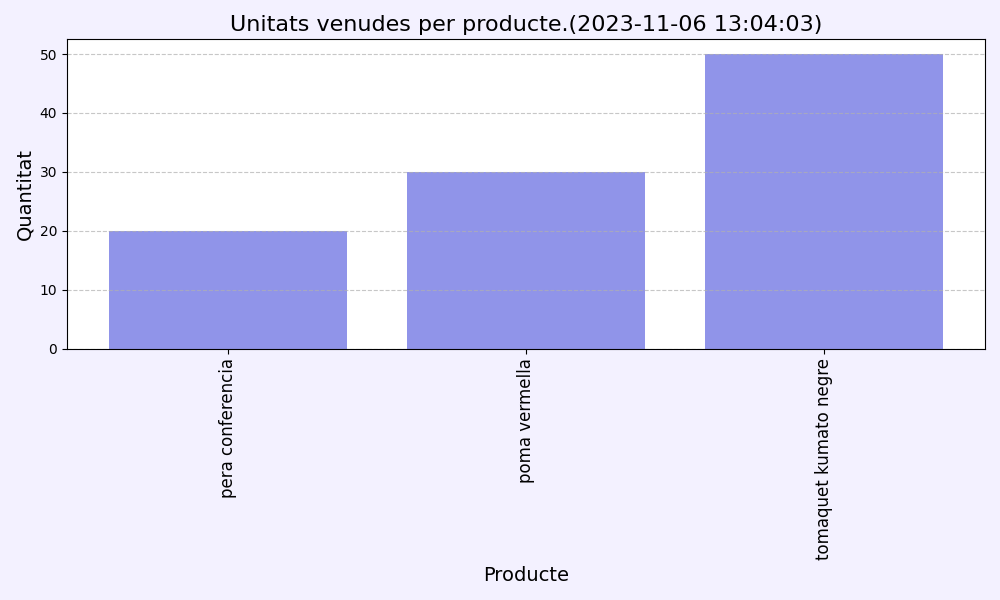
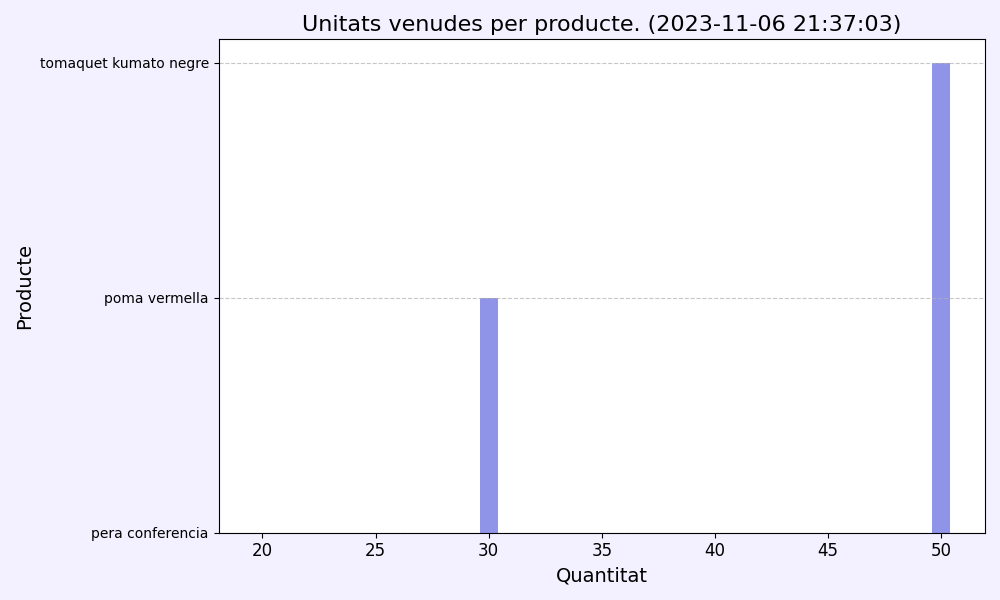
.env afegit al vue

diff --git a/frontend/vuetify/src/components/Statistics.vue b/frontend/vuetify/src/components/Statistics.vue
@@ -1,15 +1,18 @@
-<script setup></script>
+<script setup>
+</script>
 
 <script>
 export default {
   data() {
     return {
       fotoQuantitats:
-        "http://localhost:3001/api/getImatgeEstadistiques/producteCantidad",
+        import.meta.env.VITE_NODE_ROUTE +
+        "getImatgeEstadistiques/producteCantidad",
       fotoQuantitatsVenudes:
-        "http://localhost:3001/api/getImatgeEstadistiques/producteMesVenut",
+        import.meta.env.VITE_NODE_ROUTE +
+        "getImatgeEstadistiques/producteMesVenut",
       fotoHoraComu:
-        "http://localhost:3001/api/getImatgeEstadistiques/HoraMesComu?",
+        import.meta.env.VITE_NODE_ROUTE + "getImatgeEstadistiques/HoraMesComu?",
       dialog1: false,
       dialog2: false,
       dialog3: false,
@@ -17,7 +20,7 @@ export default {
   },
   methods: {
     executeStatistics() {
-      fetch("http://localhost:3001/api/executeStatistics")
+      fetch(import.meta.env.VITE_NODE_ROUTE + "hexecuteStatistics")
         .then((response) => {
           if (!response.ok) {
             throw new Error("Network response was not ok");
@@ -25,26 +28,24 @@ export default {
           return response.json();
         })
         .then((data) => {
-          // Handle a successful response here
           var rand = Math.random(100000);
           console.log("Response from /api/executeStatistics:", data);
 
           this.fotoQuantitats =
-            "http://localhost:3001/api/getImatgeEstadistiques/producteCantidad?" +
+            import.meta.env.VITE_NODE_ROUTE +
+            "getImatgeEstadistiques/producteCantidad?" +
             rand;
           this.fotoQuantitatsVenudes =
-            "http://localhost:3001/api/getImatgeEstadistiques/producteMesVenut?" +
+            import.meta.env.VITE_NODE_ROUTE +
+            "getImatgeEstadistiques/producteMesVenut?" +
             rand;
           this.fotoHoraComu =
-            "http://localhost:3001/api/getImatgeEstadistiques/HoraMesComu?" +
+            import.meta.env.VITE_NODE_ROUTE +
+            "getImatgeEstadistiques/HoraMesComu?" +
             rand;
-
-          // You can update your UI or perform other actions with the response data.
         })
         .catch((error) => {
-          // Handle errors here
           console.error("Error executing statistics:", error);
-          // You can show an error message or perform error handling.
         });
     },
   },
@@ -64,7 +65,7 @@ export default {
       class="mt-5"
       @click="$router.push('/')"
     ></v-btn>
-    <h1 class="text-center text-h2 my-16 pt-10 font-weight-bold">
+    <h1 class="text-center text-h2 my-10 mb-16 font-weight-bold">
       Estadístiques
     </h1>
     <v-container>
@@ -85,7 +86,7 @@ export default {
                   Productes Restants
                 </div>
                 <v-dialog v-model="dialog1" width="1200">
-                  <template v-slot:activator="{ props }">
+                  <template v-slot:activator>
                     <v-card
                       class="image-card"
                       style="
@@ -119,7 +120,7 @@ export default {
                   Unitats Venudes
                 </div>
                 <v-dialog v-model="dialog2" width="1200">
-                  <template v-slot:activator="{ props }">
+                  <template v-slot:activator>
                     <v-card
                       class="image-card"
                       style="
@@ -155,7 +156,7 @@ export default {
                   Hores Comunes
                 </div>
                 <v-dialog v-model="dialog3" width="1200">
-                  <template v-slot:activator="{ props }">
+                  <template v-slot:activator>
                     <v-card
                       class="image-card"
                       style="

diff --git a/frontend/vuetify/src/components/EditProduct.vue b/frontend/vuetify/src/components/EditProduct.vue
@@ -20,7 +20,7 @@ export default {
     };
   },
   mounted() {
-    fetch("http://localhost:3001/api/getCategoria")
+    fetch(import.meta.env.VITE_NODE_ROUTE + "getCategoria")
       .then((response) => response.json())
       .then((data) => {
         for (let i = 0; i < data.length; i++) {
@@ -30,7 +30,9 @@ export default {
       });
 
     fetch(
-      "http://localhost:3001/api/getProducteById?id=" + this.$route.params.id
+      import.meta.env.VITE_NODE_ROUTE +
+        "getProducteById?id=" +
+        this.$route.params.id
     )
       .then((response) => response.json())
       .then((data) => {
@@ -39,16 +41,16 @@ export default {
         this.data.preu = data.preu;
         this.data.quantitat = data.quantitat;
 
-        fetch("http://localhost:3001/api/getImage/" + data.imatgeNom).then(
-          async (response) => {
-            const contentType = response.headers.get("content-type");
-            const blob = await response.blob();
-            this.data.img = new File([blob], data.imatgeNom, { contentType });
-          }
-        );
+        fetch(
+          import.meta.env.VITE_NODE_ROUTE + "getImage/" + data.imatgeNom
+        ).then(async (response) => {
+          const contentType = response.headers.get("content-type");
+          const blob = await response.blob();
+          this.data.img = new File([blob], data.imatgeNom, { contentType });
+        });
 
         this.imgPreview =
-          "http://localhost:3001/api/getImage/" + data.imatgeNom;
+          import.meta.env.VITE_NODE_ROUTE + "getImage/" + data.imatgeNom;
         for (let i = 0; i < this.ids_categories.length; i++) {
           if (this.ids_categories[i] == data.categoria_id) {
             this.data.categoria = this.llistat_categories[i];
@@ -74,7 +76,7 @@ export default {
         let formData = new FormData();
         formData.append("img", this.data.img);
         fetch(
-          `http://localhost:3001/api/updateProduct?imatgeNom=${this.data.img.name}&categoria=${this.data.categoria}&definicio=${this.data.definicio}&nom=${this.data.nom}&preu=${this.data.preu}&quantitat=${this.data.quantitat}&idProducteUpdate=${this.$route.params.id}`,
+          `${import.meta.env.VITE_NODE_ROUTE}updateProduct?imatgeNom=${this.data.img.name}&categoria=${this.data.categoria}&definicio=${this.data.definicio}&nom=${this.data.nom}&preu=${this.data.preu}&quantitat=${this.data.quantitat}&idProducteUpdate=${this.$route.params.id}`,
           {
             method: "POST",
             mode: "cors",

diff --git a/frontend/vuetify/src/components/AddProduct.vue b/frontend/vuetify/src/components/AddProduct.vue
@@ -19,7 +19,7 @@ export default {
     };
   },
   mounted() {
-    fetch("http://localhost:3001/api/getCategoria")
+    fetch(import.meta.env.VITE_NODE_ROUTE + "getCategoria")
       .then((response) => response.json())
       .then((data) => {
         for (let i = 0; i < data.length; i++) {
@@ -47,7 +47,13 @@ export default {
         let formData = new FormData();
         formData.append("img", this.data.img);
         fetch(
-          `http://localhost:3001/api/addProduct?imatgeNom=${this.data.img.name}&categoria=${this.data.categoria}&definicio=${this.data.definicio}&nom=${this.data.nom}&preu=${this.data.preu}&quantitat=${this.data.quantitat}`,
+          import.meta.env.VITE_NODE_ROUTE + `addProduct?imatgeNom=${
+            this.data.img.name
+          }&categoria=${this.data.categoria}&definicio=${
+            this.data.definicio
+          }&nom=${this.data.nom}&preu=${this.data.preu}&quantitat=${
+            this.data.quantitat
+          }`,
           {
             method: "POST",
             mode: "cors",

diff --git a/frontend/vuetify/src/components/LandingPage.vue b/frontend/vuetify/src/components/LandingPage.vue
@@ -12,9 +12,21 @@ import ArticleControlPanel from "./ArticleControlPanel.vue";
     </h1>
     <v-container>
       <v-row justify="center">
-          <ArticleControlPanel :title="'Comandes'" :img="'order_icon.png'" :path="'/comandes'"/>
-          <ArticleControlPanel :title="'Productes'" :img="'product_icon.png'" :path="'/productes'"/>
-          <ArticleControlPanel :title="'Estadístiques'" :img="'stats_icon.png'" :path="'/estadistiques'"/>
+        <ArticleControlPanel
+          :title="'Comandes'"
+          :img="'order_icon.png'"
+          :path="'/comandes'"
+        />
+        <ArticleControlPanel
+          :title="'Productes'"
+          :img="'product_icon.png'"
+          :path="'/productes'"
+        />
+        <ArticleControlPanel
+          :title="'Estadístiques'"
+          :img="'stats_icon.png'"
+          :path="'/estadistiques'"
+        />
       </v-row>
     </v-container>
   </v-container>

diff --git a/frontend/vuetify/src/components/Product.vue b/frontend/vuetify/src/components/Product.vue
@@ -3,21 +3,13 @@ import DeleteDialog from "./DeleteDialog.vue";
 </script>
 
 <script>
+const env = import.meta.env.VITE_NODE_ROUTE;
+
 export default {
   props: ["data"],
   methods: {
     deleteProduct() {
-      this.$emit('deleteProduct')
-    },
-    editQuestion: function (id) {
-      fetch("http://localhost:4000/updatePreguntes", {
-        method: "POST",
-        mode: "cors",
-      })
-        .then((response) => response.json())
-        .then((data) => {
-          console.log(data);
-        });
+      this.$emit("deleteProduct");
     },
   },
 };
@@ -31,7 +23,7 @@ export default {
     </v-card-title>
     <v-img
       height="200"
-      :src="'http://localhost:3001/api/getImage/' + data.imatgeNom"
+      :src="`${env}getImage/${data.imatgeNom}`"
       style="border-top: black"
     >
     </v-img>

diff --git a/frontend/vuetify/src/components/OrdersToDo.vue b/frontend/vuetify/src/components/OrdersToDo.vue
@@ -13,7 +13,7 @@ export default {
     json: {},
   }),
   mounted() {
-    this.socket = io("http://localhost:3001"); // Reemplaza con la URL de tu servidor de sockets
+    this.socket = io(import.meta.env.VITE_SOCKETS); // Reemplaza con la URL de tu servidor de sockets
 
     this.socket.on("json", (data) => {
       this.json = data;

diff --git a/frontend/vuetify/src/components/DeleteDialog.vue b/frontend/vuetify/src/components/DeleteDialog.vue
@@ -3,7 +3,7 @@ export default {
   props: ["data"],
   methods: {
     deleteProduct: function (id) {
-      fetch(`http://localhost:3001/api/deleteProduct?idproducte=${id}`, {
+      fetch(`${import.meta.env.VITE_NODE_ROUTE}deleteProduct?idproducte=${id}`, {
         method: "POST",
         mode: "cors",
       })

diff --git a/frontend/vuetify/src/components/Products.vue b/frontend/vuetify/src/components/Products.vue
@@ -31,7 +31,7 @@ export default {
   methods: {
     getProductes() {
       
-      fetch("http://localhost:3001/api/getProducts")
+      fetch(import.meta.env.VITE_NODE_ROUTE + "getProducts")
         .then((response) => response.json())
         .then((data) => {
           this.productes_originals = data;

diff --git a/frontend/vuetify/src/App.vue b/frontend/vuetify/src/App.vue
@@ -1,5 +1,8 @@
 <script setup>
 </script>
+<script>
+</script>
+
 
 <template>
   <router-view>

diff --git a/backend/node/estadistiques.py b/backend/node/estadistiques.py
@@ -50,17 +50,17 @@ def graficoCantidadVendida(df, filename):
     plt.figure(figsize=(10, 6), facecolor='#f3f1ff')  # Establecer el color de fondo de toda la figura
     
     # Crear un gráfico de barras con puntas redondas y color personalizado
-    plt.bar(df['producto'], df['cantidad_vendida'], color='#9094e9', capstyle='round')
+    plt.bar(df['cantidad_vendida'], df['producto'], color='#9094e9', capstyle='round')
     
     # Obtener la fecha actual
     fecha_actual = datetime.now().strftime('%Y-%m-%d %H:%M:%S')
    
     # Utilizar la fecha actual en el título del gráfico
-    plt.title(f'Unitats venudes per producte.({fecha_actual})', fontsize=16)
+    plt.title(f'Unitats venudes per producte. ({fecha_actual})', fontsize=16)
    
-    plt.xticks(rotation=90, fontsize=12)
-    plt.xlabel('Producte', fontsize=14)
-    plt.ylabel('Quantitat', fontsize=14)
+    plt.xticks(fontsize=12)
+    plt.ylabel('Producte', fontsize=14)
+    plt.xlabel('Quantitat', fontsize=14)
     
     # Eliminar la cuadrícula horizontal
     plt.grid(axis='y', linestyle='--', alpha=0.7)
@@ -75,7 +75,7 @@ def graficoCantidad(df, filename):
     plt.figure(figsize=(10, 6), facecolor='#f3f1ff')  # Establecer el color de fondo de toda la figura
     
     # Crear un gráfico de barras con puntas redondas y color personalizado
-    plt.bar(df['nom'], df['quantitat'], color='#9094e9', capstyle='round')
+    plt.bar(df['quantitat'], df['nom'], color='#9094e9', capstyle='round')
     
     # Obtener la fecha actual
     fecha_actual = datetime.now().strftime('%Y-%m-%d %H:%M:%S')
@@ -83,9 +83,9 @@ def graficoCantidad(df, filename):
     # Utilizar la fecha actual en el título del gráfico
     plt.title(f'Unitats restants productes({fecha_actual})', fontsize=16)
    
-    plt.xticks(rotation=90, fontsize=12)
-    plt.xlabel('Productes', fontsize=14)
-    plt.ylabel('Quantitat', fontsize=14)
+    plt.xticks(fontsize=12)
+    plt.ylabel('Productes', fontsize=14)
+    plt.xlabel('Quantitat', fontsize=14)
     
     # Eliminar la cuadrícula horizontal
     plt.grid(axis='y', linestyle='--', alpha=0.7)
@@ -122,7 +122,7 @@ def graficHoresComanda(df, filename, hora_mas_comun):
     plt.xticks(range(24), fontsize=12)  # Etiquetas para las 24 horas
     
     # Rotar las etiquetas del eje x para mayor legibilidad
-    ax.set_xticklabels(ax.get_xticklabels(), rotation=90, horizontalalignment='right')
+    ax.set_xticklabels(ax.get_xticklabels(), horizontalalignment='right')
     
     # Guardar la figura en un archivo
     plt.tight_layout()
